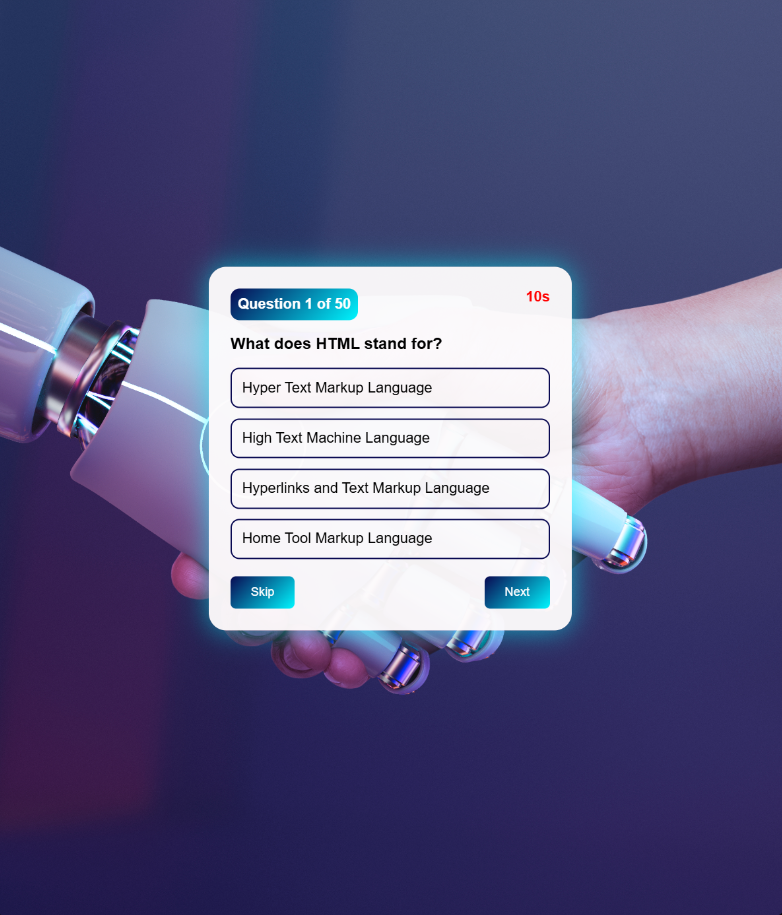
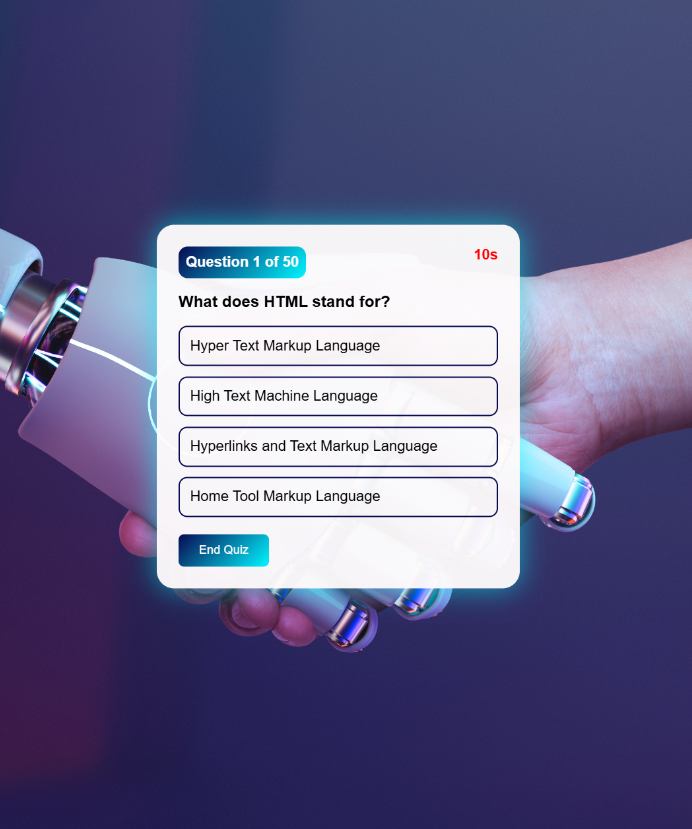
clean it

Changed region(s): [[0.0, 0.2413, 1.0, 0.7841], [0.9711, 0.2714, 1.0, 0.3016]]

diff --git a/quiz.js b/quiz.js
@@ -314,7 +314,7 @@ const optionsEl = document.getElementById("options");
 const timerEl = document.getElementById("timer");
 const progressEl = document.getElementById("progress");
 const nextBtn = document.getElementById("nextBtn");
-const skipBtn = document.getElementById("skipBtn");
+const endBtn = document.getElementById("endBtn");
 
 function loadQuestion() {
   clearInterval(interval);
@@ -322,7 +322,8 @@ function loadQuestion() {
 
   timer = 15;
   answered = false;
-  nextBtn.disabled = true;
+
+  nextBtn.style.display = "none"; // 👈 hide initially
 
   const q = questions[currentIndex];
   questionEl.textContent = q.question;
@@ -374,7 +375,8 @@ function selectOption(element, index) {
 
 function revealCorrectAnswer(selectedIndex = null) {
   answered = true;
-  nextBtn.disabled = false;
+
+  nextBtn.style.display = "block"; // 👈 show now
 
   const correct = questions[currentIndex].answer;
   const options = document.querySelectorAll(".option");
@@ -382,9 +384,7 @@ function revealCorrectAnswer(selectedIndex = null) {
   options.forEach((opt, i) => {
     opt.style.pointerEvents = "none";
 
-    if (i === correct) {
-      opt.classList.add("correct");
-    }
+    if (i === correct) opt.classList.add("correct");
 
     if (selectedIndex !== null && i === selectedIndex && i !== correct) {
       opt.classList.add("wrong");
@@ -420,17 +420,9 @@ nextBtn.onclick = () => {
   goNext();
 };
 
-skipBtn.onclick = () => {
-  if (answered) return;
-
-  answered = true;
-  clearInterval(interval);
-
-  revealCorrectAnswer();
-
-  setTimeout(() => {
-    goNext();
-  }, 1000); // brief reveal before moving
+endBtn.onclick = () => {
+  localStorage.setItem("quizScore", score);
+  window.location.href = "result.html";
 };
 
 loadQuestion();

diff --git a/quiz.scss b/quiz.scss
@@ -71,6 +71,18 @@ h2 {
   margin-top: 1.2rem;
 }
 
+.end{
+  button {
+    padding: 0.6rem 1.4rem;
+    border-radius: 6px;
+    border: none;
+    cursor: pointer;
+    background: linear-gradient(135deg, $main, $neon);
+    color: white;
+  }
+  
+}
+
 button {
   padding: 0.6rem 1.4rem;
   border-radius: 6px;

diff --git a/quiz.css b/quiz.css
@@ -68,6 +68,15 @@ h2 {
   margin-top: 1.2rem;
 }
 
+.end button {
+  padding: 0.6rem 1.4rem;
+  border-radius: 6px;
+  border: none;
+  cursor: pointer;
+  background: linear-gradient(135deg, #090952, #00f6ff);
+  color: white;
+}
+
 button {
   padding: 0.6rem 1.4rem;
   border-radius: 6px;

diff --git a/quiz.html b/quiz.html
@@ -18,7 +18,7 @@
     <div class="options" id="options"></div>
 
     <div class="quiz-actions">
-      <button id="skipBtn">Skip</button>
+      <button id="endBtn" class="end">End Quiz</button>
       <button id="nextBtn" disabled>Next</button>
     </div>
   </div>

diff --git a/readme.md b/readme.md
@@ -26,8 +26,8 @@ The quiz application allows users to enter their name, read instructions, and ta
 * Timed questions (15 seconds per question)
 * Automatic transition when time expires
 * Instant feedback on selected answers
-* Skip functionality with answer reveal
 * Progress tracking across questions
+* End option to reveal result
 * Submit option on final question
 * Result summary with score and percentage
 * Responsive, mobile-first layout
